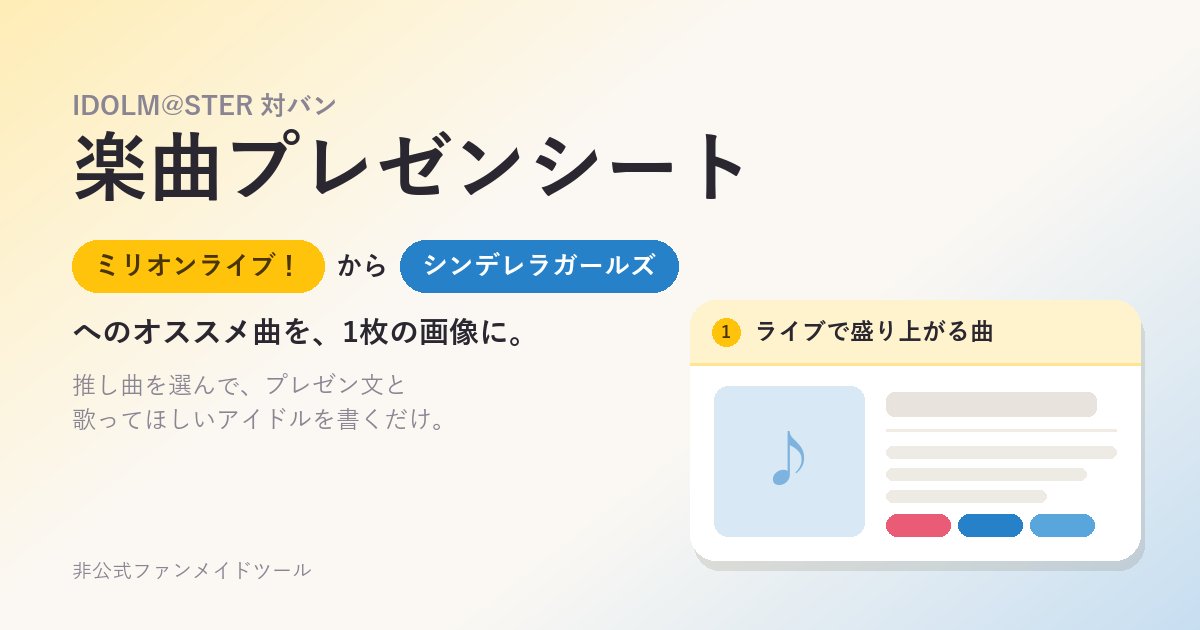
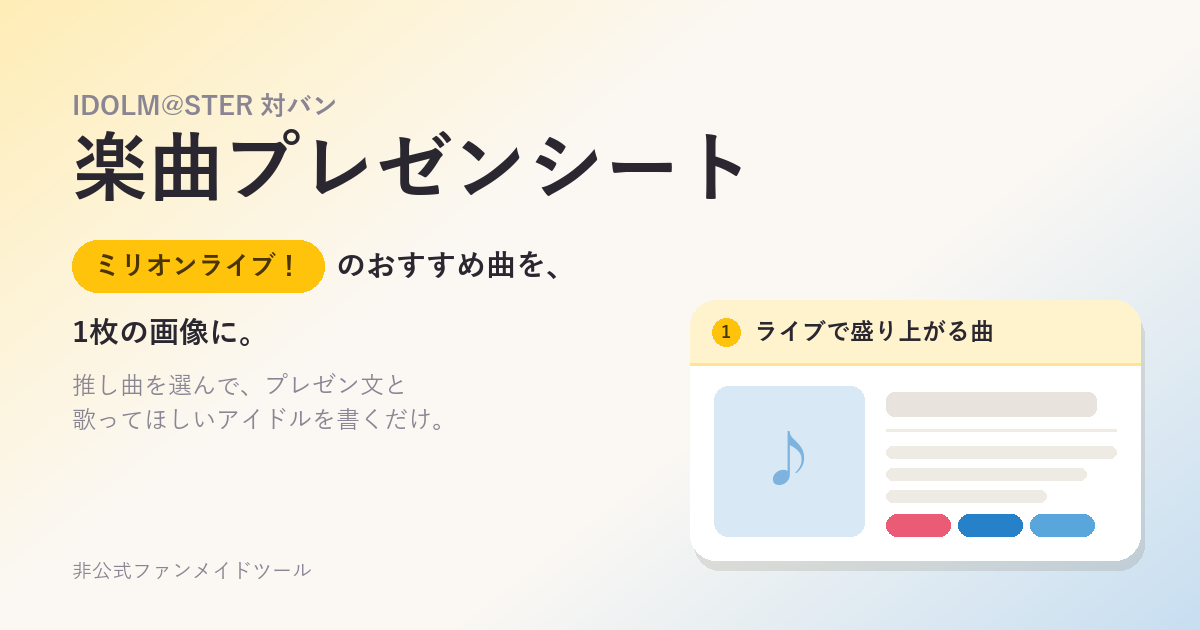
[fix]楽曲の紹介スタイルを変更

Changed region(s): [[0.0617, 0.3619, 0.5858, 0.5429]]

diff --git a/promote/assets/app.js b/promote/assets/app.js
@@ -48,7 +48,7 @@ async function ensureBrand(id) {
   if (!DB.idols[id]) DB.idols[id] = await getJSON(`data/idols/${id}.json`).catch(() => []);
 }
 const brand = (id) => DB.brands.find((b) => b.id === id) || DB.brands[0];
-// 「から／へ」で選べるブランド。selectable:false は歌唱メンバーの候補にだけ出す（楽曲データがないブランド）
+// おすすめするブランドとして選べるブランド。selectable:false は歌唱メンバーの候補にだけ出す（楽曲データがないブランド）
 const isPickable = (b) => b.selectable !== false;
 const pickableBrands = () => DB.brands.filter(isPickable);
 
@@ -58,7 +58,7 @@ function newItem(theme = "") {
   return { id: uid(), theme, songId: null, title: "", url: "", jacket: "", jacketAuto: false, pitch: "", members: [] };
 }
 function defaultState() {
-  return { name: "", from: "ml", to: "cg", items: [] }; // 最初は曲なし（「＋新しい曲を追加する」が一番上に来る）
+  return { name: "", from: "ml", items: [] }; // 最初は曲なし（「＋新しい曲を追加する」が一番上に来る）
 }
 
 let state;
@@ -133,19 +133,20 @@ function tint(hex, ratio) {
 }
 
 function applyBrandColors() {
-  const f = brand(state.from), t = brand(state.to);
+  // （以前は「から／へ」の2ブランドだった名残で --to も使っているので、同じ色を入れる）
+  const f = brand(state.from);
   const root = document.documentElement.style;
   root.setProperty("--from", f.color);
   root.setProperty("--from-ink", f.ink);
-  root.setProperty("--to", t.color);
-  root.setProperty("--to-ink", t.ink);
+  root.setProperty("--to", f.color);
+  root.setProperty("--to-ink", f.ink);
 }
 
-// 曲のブランド（選曲時に記録。未記録の古いデータは「から」側のブランド）
+// 曲のブランド（選曲時に記録。未記録の古いデータはおすすめするブランド）
 const songBrand = (it) => it.brand || state.from;
 
 function memberColor(m) {
-  return m.color || brand(m.brand || state.to).color;
+  return m.color || brand(m.brand || state.from).color;
 }
 
 function autosize(ta) {
@@ -164,32 +165,22 @@ function renderHead() {
   syncFilled();
   nameIn.oninput = () => { state.name = nameIn.value; syncFilled(); save(); };
 
-  for (const [sel, key] of [["#sel-from", "from"], ["#sel-to", "to"]]) {
-    const s = $(sel);
-    s.replaceChildren(...pickableBrands().map((b) => h("option", { value: b.id }, b.name)));
-    s.value = state[key];
-    s.onchange = async () => {
-      const next = { from: state.from, to: state.to };
-      const other = key === "from" ? "to" : "from";
-      if (s.value === next[other]) next[other] = next[key]; // 同じブランドを選んだら入れ替え
-      next[key] = s.value;
-      await changeBrands(next.from, next.to);
-    };
-  }
-  $("#btn-swap").onclick = () => changeBrands(state.to, state.from);
+  const s = $("#sel-from");
+  s.replaceChildren(...pickableBrands().map((b) => h("option", { value: b.id }, b.name)));
+  s.value = state.from;
+  s.onchange = () => changeBrands(s.value);
 }
 
-// 「から」のブランドが変わると、別ブランドの曲が入ったカードは矛盾するので確認してリセットする
-async function changeBrands(nextFrom, nextTo) {
+// おすすめするブランドが変わると、別ブランドの曲が入ったカードは矛盾するので確認してリセットする
+async function changeBrands(nextFrom) {
   const stale = state.items.filter((it) => it.title.trim() && songBrand(it) !== nextFrom);
   if (stale.length) {
     const names = [...new Set(stale.map((it) => brand(songBrand(it)).name))].join("・");
     const ok = confirm(
       `${names}の曲が${stale.length}曲入っています。\n` +
-      `「から」のブランドを${brand(nextFrom).name}に変えると、これらのカードの曲名・ジャケット・プレゼン内容・歌唱予想メンバーがリセットされます（お題は残ります）。\n変更しますか？`);
+      `おすすめするブランドを${brand(nextFrom).name}に変えると、これらのカードの曲名・ジャケット・プレゼン内容・歌唱予想メンバーがリセットされます（お題は残ります）。\n変更しますか？`);
     if (!ok) {
       $("#sel-from").value = state.from;
-      $("#sel-to").value = state.to;
       return;
     }
     for (const it of stale) {
@@ -197,14 +188,12 @@ async function changeBrands(nextFrom, nextTo) {
     }
   }
   state.from = nextFrom;
-  state.to = nextTo;
   await onBrandChange();
 }
 
 async function onBrandChange() {
-  await Promise.all([ensureBrand(state.from), ensureBrand(state.to)]);
+  await ensureBrand(state.from);
   $("#sel-from").value = state.from;
-  $("#sel-to").value = state.to;
   applyBrandColors();
   renderItems();
   save();
@@ -282,7 +271,7 @@ function cardEl(it, idx) {
 
   // --- 曲名（検索 + 自由入力）
   const songIn = h("input", {
-    class: "song-input", type: "text", value: it.title, placeholder: `${brand(state.from).short}の曲名を入力して検索`,
+    class: "song-input", type: "text", value: it.title, placeholder: `${brand(state.from).short}の曲名・歌唱アイドル名で検索`,
     autocomplete: "off", autocapitalize: "off", autocorrect: "off", spellcheck: "false",
     "aria-label": "曲名", role: "combobox", "aria-expanded": "false",
   });
@@ -295,6 +284,7 @@ function cardEl(it, idx) {
   syncSongField();
 
   let results = [], active = -1;
+  let singerHits = new Set(), singerName = ""; // 歌唱者名で見つかった曲（候補に「歌：名前」と出す）
   // スマホの日本語入力は変換中の文字が確定されずに残るため、候補をタップした時に
   // 「候補の曲名 + 入力途中の文字」になってしまう。先に入力欄を外して変換を確定させてから曲名で上書きし、
   // 直後に遅れて届く入力イベントも無視する。
@@ -317,7 +307,8 @@ function cardEl(it, idx) {
       ? results.map((s, i) => h("li", {
           role: "option", class: i === active ? "active" : "",
           onpointerdown: (e) => { e.preventDefault(); pick(s); },
-        }, s.title, s.kana && norm(s.kana) !== norm(s.title) ? h("small", {}, s.kana) : null))
+        }, s.title, singerHits.has(s) ? h("small", {}, `歌：${singerName}`)
+          : s.kana && norm(s.kana) !== norm(s.title) ? h("small", {}, s.kana) : null))
       : [h("li", { class: "empty" }, "見つかりません（このまま自由入力もできます）")]));
     list.hidden = false;
     songIn.setAttribute("aria-expanded", "true");
@@ -326,14 +317,19 @@ function cardEl(it, idx) {
     const q = norm(songIn.value);
     if (!q) { results = []; close(); return; }
     const songs = DB.songs[state.from] || [];
-    const starts = [], contains = [];
+    const starts = [], contains = [], bySinger = [];
     for (const s of songs) {
       const a = norm(s.title), k = norm(s.kana);
       if (a.startsWith(q) || k.startsWith(q)) starts.push(s);
       else if (a.includes(q) || k.includes(q)) contains.push(s);
-      if (starts.length > 40) break;
+      // 歌唱者名と完全一致（「春日 未来」のような空白の有無は区別しない）なら、その人の参加曲を全部出す
+      else {
+        const n = (s.singers || []).find((n) => norm(n) === q);
+        if (n) { bySinger.push(s); singerName = n; }
+      }
     }
-    results = starts.concat(contains).slice(0, 30);
+    singerHits = new Set(bySinger);
+    results = starts.concat(contains).slice(0, 30).concat(bySinger);
     active = results.length ? 0 : -1;
     draw();
   };
@@ -644,17 +640,15 @@ async function resolveJacket(u) {
 }
 
 function buildSheet(jackets) {
-  const f = brand(state.from), t = brand(state.to);
+  const f = brand(state.from);
   const items = state.items.filter((it) => it.title || it.pitch || it.members.length || it.jacket);
-  const bg = `linear-gradient(160deg, ${tint(f.color, 0.26)} 0%, #fbf8f3 34%, #fbf8f3 66%, ${tint(t.color, 0.22)} 100%)`;
+  const bg = `linear-gradient(160deg, ${tint(f.color, 0.26)} 0%, #fbf8f3 34%, #fbf8f3 66%, ${tint(f.color, 0.18)} 100%)`;
   return h("div", { class: "x-sheet", style: { backgroundImage: bg } },
     h("div", { class: "x-head" },
       h("div", { class: "x-name" }, state.name.trim() || DEFAULT_NAME),
       h("div", { class: "x-sub" },
         h("span", { class: "x-pill", style: { background: f.color, color: f.ink } }, f.name),
-        h("span", {}, "から"),
-        h("span", { class: "x-pill", style: { background: t.color, color: t.ink } }, t.name),
-        h("span", {}, "へのオススメ曲")),
+        h("span", {}, "のおすすめ曲")),
     ),
     h("div", { class: "x-items" }, items.map((it, i) => {
       const jk = jackets.get(it.id);
@@ -729,8 +723,8 @@ async function exportImage() {
   }
 }
 
-const fileName = () => `imas-presen-${state.from}-to-${state.to}.png`;
-const shareText = () => `${HASHTAG}\n${brand(state.from).name} から ${brand(state.to).name} へのオススメ曲\n${location.origin}${location.pathname}`;
+const fileName = () => `imas-presen-${state.from}.png`;
+const shareText = () => `${HASHTAG}\n${brand(state.from).name} のおすすめ曲\n${location.origin}${location.pathname}`;
 
 function canShareFile() {
   try {
@@ -838,7 +832,6 @@ async function init() {
   state = loadState() || defaultState();
   const pk = pickableBrands();
   if (!pk.some((b) => b.id === state.from)) state.from = pk[0].id;
-  if (!pk.some((b) => b.id === state.to) || state.to === state.from) state.to = pk.find((b) => b.id !== state.from).id;
   if (DB.meta.updated_at) $("#data-date").textContent = ` / データ更新 ${DB.meta.updated_at}`;
   wire();
   renderHead();

diff --git a/promote/index.html b/promote/index.html
@@ -25,19 +25,19 @@
 <meta property="og:site_name" content="アイマス楽曲プレゼンシート">
 <meta property="og:locale" content="ja_JP">
 <!-- SNS のクローラーは相対パスを解決しないので画像は絶対URL。画像を作り直したら ?v= を変える -->
-<meta property="og:image" content="https://imas-presen-songs.283production-staff.workers.dev/assets/ogp.png?v=1">
+<meta property="og:image" content="https://imas-presen-songs.283production-staff.workers.dev/assets/ogp.png?v=2">
 <meta property="og:image:width" content="1200">
 <meta property="og:image:height" content="630">
-<meta property="og:image:alt" content="アイマス楽曲プレゼンシート：ミリオンライブ！からシンデレラガールズへのオススメ曲を1枚の画像に">
+<meta property="og:image:alt" content="アイマス楽曲プレゼンシート：ブランドのおすすめ曲を1枚の画像に">
 <meta name="twitter:card" content="summary_large_image">
 <meta name="twitter:title" content="アイマス楽曲プレゼンシート">
 <meta name="twitter:description" content="ブランドの垣根を越えて、推し曲をプレゼンしよう。">
-<meta name="twitter:image" content="https://imas-presen-songs.283production-staff.workers.dev/assets/ogp.png?v=1">
+<meta name="twitter:image" content="https://imas-presen-songs.283production-staff.workers.dev/assets/ogp.png?v=2">
 <meta name="theme-color" content="#fff8ec">
 <link rel="preconnect" href="https://fonts.googleapis.com">
 <link rel="preconnect" href="https://fonts.gstatic.com" crossorigin>
 <link href="https://fonts.googleapis.com/css2?family=M+PLUS+Rounded+1c:wght@400;700;800&display=swap" rel="stylesheet">
-<link rel="stylesheet" href="assets/style.css?v=20261115f">
+<link rel="stylesheet" href="assets/style.css?v=20261116a">
 </head>
 <body>
 <header class="topbar">
@@ -64,11 +64,8 @@
         </span>
       </label>
       <div class="brand-line">
-        <select id="sel-from" aria-label="おすすめする側のブランド"></select>
-        <span class="brand-line-text">から</span>
-        <button type="button" class="swap" id="btn-swap" title="ブランドを入れ替え" aria-label="ブランドを入れ替え">⇄</button>
-        <select id="sel-to" aria-label="おすすめされる側のブランド"></select>
-        <span class="brand-line-text">へのオススメ曲</span>
+        <select id="sel-from" aria-label="おすすめするブランド"></select>
+        <span class="brand-line-text">のおすすめ曲</span>
       </div>
     </div>
 
@@ -150,6 +147,6 @@
 <div id="export-stage" aria-hidden="true"></div>
 
 <script src="https://cdnjs.cloudflare.com/ajax/libs/html2canvas/1.4.1/html2canvas.min.js"></script>
-<script src="assets/app.js?v=20261115b" type="module"></script>
+<script src="assets/app.js?v=20261116b" type="module"></script>
 </body>
 </html>

diff --git a/promote/assets/style.css b/promote/assets/style.css
@@ -119,11 +119,6 @@ a { color: inherit; }
   background-size: 5px 5px; background-repeat: no-repeat;
 }
 #sel-from { background-color: var(--from); color: var(--from-ink); }
-#sel-to { background-color: var(--to); color: var(--to-ink); }
-.swap {
-  width: 30px; height: 30px; border-radius: 50%; border: 1px solid var(--line);
-  background: var(--paper); cursor: pointer; font-weight: 800;
-}
 
 /* ---------- song card ---------- */
 .items { display: flex; flex-direction: column; gap: 16px; }

diff --git a/promote/scripts/fetch_data.py b/promote/scripts/fetch_data.py
@@ -293,6 +293,53 @@ def build_brand(brand_id: str, conf: dict) -> None:
     print(f"[{brand_id}] {len(song_rows) if song_rows is not None else '-'} songs / {len(idol_rows)} idols")
 
 
+def attach_singers() -> None:
+    """各アイドルの参加曲（/tax）を集め、data/songs/<brand>.json の各曲に singers（歌唱メンバー名）を付ける。
+    曲名検索で歌唱者名（完全一致）からも曲を探せるようにするため。"""
+    song_files = [DATA / "songs" / f"{b}.json" for b, c in BRANDS.items() if c["music_type"]]
+    song_files = [f for f in song_files if f.exists()]
+    if not song_files:
+        return
+    print("[singers] idol songs")
+    plain = lambda n: re.sub(r"\s", "", SHODAI.sub("", n or ""))
+    singers: dict[int, list[str]] = {}
+    seen: set[str] = set()
+    for b in BRANDS:
+        path = DATA / "idols" / f"{b}.json"
+        if not path.exists():
+            continue
+        for r in json.loads(path.read_text(encoding="utf-8")):
+            name = r["name"]
+            if name in seen:
+                continue
+            seen.add(name)
+            data = None
+            if isinstance(r["id"], int):
+                try:
+                    data = get_json(f"{API}/tax?id={r['id']}&limit=3000")
+                except Exception:
+                    data = None
+                if data and plain(data.get("name")) != plain(name):
+                    data = None  # 手で付けたID（学マスなど）は別人なので名前で引き直す
+            if data is None:
+                try:
+                    data = get_json(f"{API}/tax?idol_name={urllib.parse.quote(plain(name))}&limit=3000")
+                except Exception:
+                    continue
+                if plain(data.get("name")) != plain(name):
+                    continue
+            for s in data.get("song") or []:
+                lst = singers.setdefault(s["song_id"], [])
+                if name not in lst:
+                    lst.append(name)
+    for f in song_files:
+        rows = json.loads(f.read_text(encoding="utf-8"))
+        for s in rows:
+            s["singers"] = singers.get(s["id"], [])
+        write(f, rows)
+        print(f"[singers] {f.name}: {sum(1 for s in rows if s['singers'])}/{len(rows)} songs have singers")
+
+
 def write(path: Path, obj) -> None:
     path.parent.mkdir(parents=True, exist_ok=True)
     path.write_text(json.dumps(obj, ensure_ascii=False, indent=1) + "\n", encoding="utf-8")
@@ -302,6 +349,7 @@ def main() -> None:
     targets = sys.argv[1:] or list(BRANDS)
     for b in targets:
         build_brand(b, BRANDS[b])
+    attach_singers()
     jst = timezone(timedelta(hours=9))
     write(DATA / "meta.json", {"updated_at": datetime.now(jst).strftime("%Y-%m-%d")})
 

diff --git a/promote/scripts/make_ogp.py b/promote/scripts/make_ogp.py
@@ -84,9 +84,8 @@ def main() -> None:
     d.text((x0, 128), "楽曲プレゼンシート", font=font("bold", 76), fill=INK)
     fp = font("bold", 26)
     x = pill(d, x0, 240, a["name"], ca, ia, fp)
-    d.text((x + 12, 266), "から", font=fp, fill=INK, anchor="lm")
-    x = pill(d, x + 12 + d.textlength("から", font=fp) + 12, 240, b["name"], cb, ib, fp)
-    d.text((x0, 316), "へのオススメ曲を、1枚の画像に。", font=font("bold", 30), fill=INK)
+    d.text((x + 12, 266), "のおすすめ曲を、", font=font("bold", 30), fill=INK, anchor="lm")
+    d.text((x0, 316), "1枚の画像に。", font=font("bold", 30), fill=INK)
     d.text((x0, 372), "推し曲を選んで、プレゼン文と", font=font("regular", 24), fill=MUTED)
     d.text((x0, 406), "歌ってほしいアイドルを書くだけ。", font=font("regular", 24), fill=MUTED)
 

diff --git a/promote/README.md b/promote/README.md
@@ -1,12 +1,12 @@
 # アイマス楽曲プレゼンシート
 
-アイドルマスターの対バンに向けて、「A ブランドから B ブランドへのオススメ曲」をプレゼンする画像を作れる、非公式のファンメイドツールです。Cloudflare Workers（静的アセット）で公開している静的サイトです（ビルド不要）。
+アイドルマスターの対バンに向けて、「A ブランドのおすすめ曲」をプレゼンする画像を作れる、非公式のファンメイドツールです。Cloudflare Workers（静的アセット）で公開している静的サイトです（ビルド不要）。
 
 公開URL：https://imas-presen-songs.283production-staff.workers.dev/ （旧URL の GitHub Pages で開くと、新URLが公開されていればこのURLへ自動で移動します）
 
 ## できること
 
-- 名前を入力できます（未入力なら「名無しP」）。おすすめする側（A）とされる側（B）のブランドを選べ、⇄ で入れ替えられます。
+- 名前を入力できます（未入力なら「名無しP」）。おすすめするブランド（A）を選べます。
 - 1曲ごとにカードを作れます。カードには次の内容を入れられます。
   - お題（○○な曲）：既定のお題から選ぶことも、自由に入力することもできます（`data/themes.json`）。
   - 曲名：A ブランドの曲を検索できます（ひらがな・カタカナどちらでも可）。リストにない曲は自由に入力できます。
